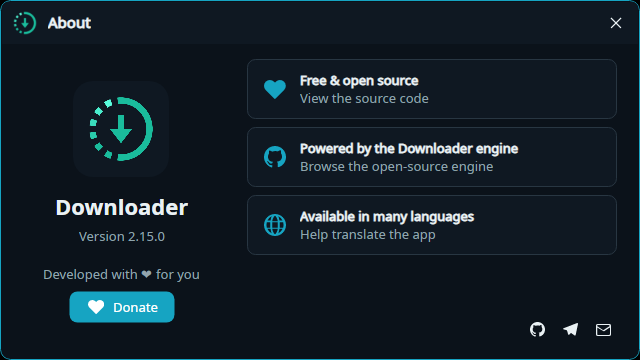
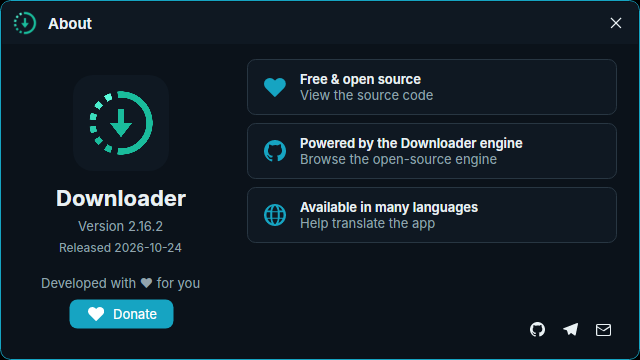
About: show the release date under the version
The build stamps its UTC date (yyyy-MM-dd) into the assembly as BuildDate
metadata. A release is built from its tag on release day, so this is the
release date. New About_ReleaseDate string in all 16 language packs.

diff --git a/src/Downloader.Desktop/ViewModels/AboutViewModel.cs b/src/Downloader.Desktop/ViewModels/AboutViewModel.cs
@@ -1,4 +1,6 @@
 using System;
+using System.Linq;
+using System.Reflection;
 using System.Windows.Input;
 using Downloader.Desktop.Services;
 using ReactiveUI;
@@ -48,6 +50,14 @@ public class AboutViewModel : ViewModelBase
 
     /// <summary>The clean 3-part version shown under the title (same value the update check uses).</summary>
     public string VersionText => string.Format(Localizer.Instance["About_Version"], UpdateService.CurrentVersion);
+
+    /// <summary>The UTC date this build was made (yyyy-MM-dd), stamped by the csproj. A release is built on release day.</summary>
+    public static string BuildDate => typeof(AboutViewModel).Assembly
+        .GetCustomAttributes<AssemblyMetadataAttribute>()
+        .FirstOrDefault(a => a.Key == "BuildDate")?.Value ?? "";
+
+    /// <summary>The release date shown under the version.</summary>
+    public string ReleaseDateText => string.Format(Localizer.Instance["About_ReleaseDate"], BuildDate);
 
     private static void Open(string url) => ShellLauncher.Open(url);
 }

diff --git a/src/Downloader.Desktop.Tests/Unit/LogicTests.cs b/src/Downloader.Desktop.Tests/Unit/LogicTests.cs
@@ -214,6 +214,17 @@ public class LogicTests
     }
 
     [Fact(Timeout = TestTimeouts.DefaultMs)]
+    public void About_shows_the_release_date_stamped_at_build()
+    {
+        Assert.True(System.DateTime.TryParseExact(AboutViewModel.BuildDate, "yyyy-MM-dd",
+            System.Globalization.CultureInfo.InvariantCulture, System.Globalization.DateTimeStyles.None, out _));
+
+        var text = new AboutViewModel().ReleaseDateText;
+        Assert.Contains(AboutViewModel.BuildDate, text);
+        Assert.DoesNotContain("About_ReleaseDate", text);   // a real string, not the missing-key fallback
+    }
+
+    [Fact(Timeout = TestTimeouts.DefaultMs)]
     public void Donate_links_include_github_sponsors()
     {
         Assert.Equal("https://github.com/sponsors/bezzad", DonateViewModel.GitHubSponsorsUrl);
